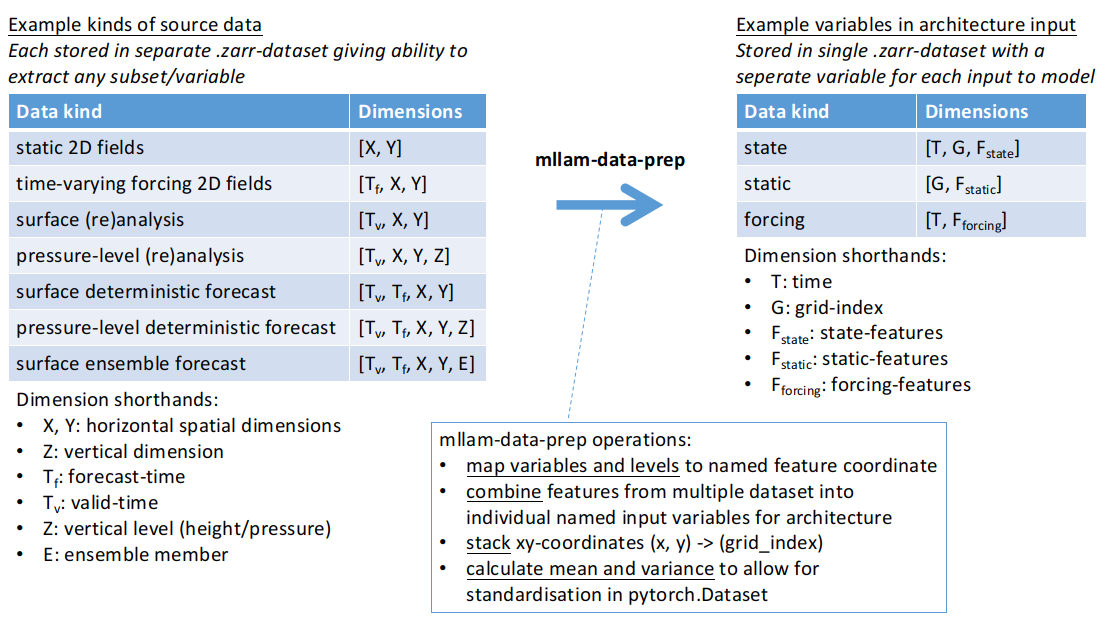
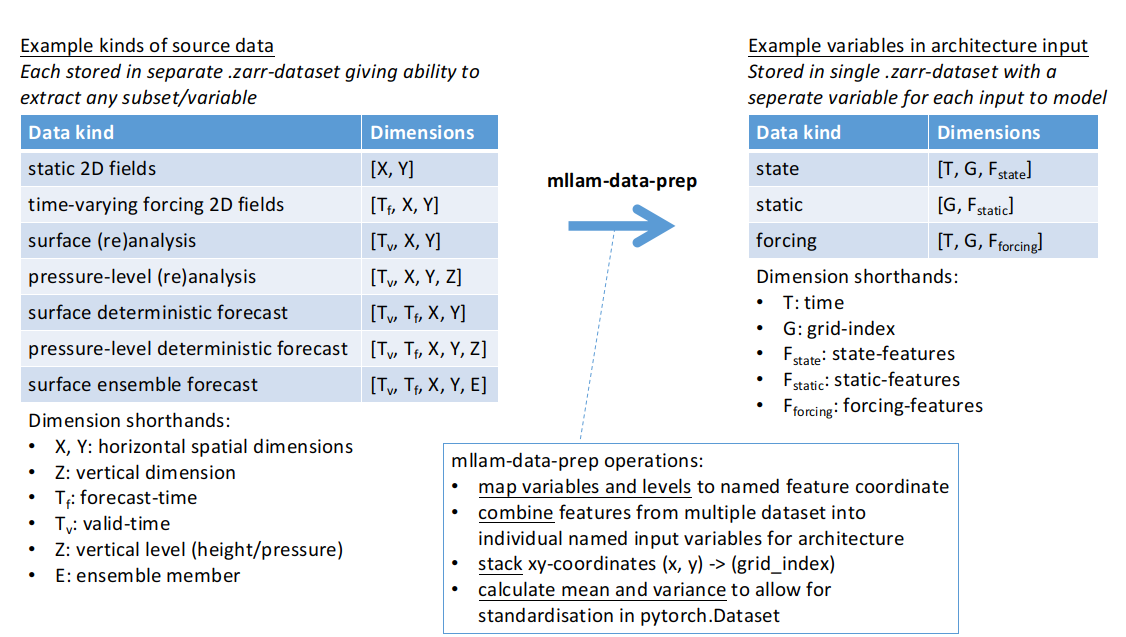
Prepare release v0.1.0 (#6)
* add changelog

* update diagram

* add dev notes to README

* add pypi deploy cicd workflow

* ensure tests run on main

Changed region(s): [[0.0, 0.0308, 0.6137, 0.9238], [0.3989, 0.0308, 1.0, 1.0], [0.4296, 0.3695, 0.4603, 0.4003]]

diff --git a/README.md b/README.md
@@ -12,13 +12,37 @@ The full configuration file specification is given in [mllam_data_prep/config/sp
 
 ## Installation
 
-The easiest way to install the package is to clone the repository and install it using pip:
+To simply use `mllam-data-prep` you can install the most recent tagged version from pypi with pip:
 
 ```bash
-git clone https://github.com/mllam/mllam-data-prep
-cd mllam-data-prep
-pip install .
+python -m pip install mllam-data-prep
 ```
+
+## Developing `mllam-data-prep`
+
+To work on developing `mllam-data-prep` it easiest to install and manage the dependencies with [pdm](https://pdm.fming.dev/). To get started clone your fork of [the main repo](https://github.com/mllam/mllam-data-prep) locally:
+
+```bash
+git clone https://github.com/<your-github-username>/mllam-data-prep
+cd mllam-data-prep
+```
+
+Use pdm to create and use a virtualenv:
+
+```bash
+pdm venv create
+pdm use --venv in-project
+pdm install
+```
+
+All the linting is handelled by `pre-commit` which can be setup to automatically be run on each `git commit` by installing the git commit hook:
+
+```bash
+pdm run pre-commit install
+```
+
+The branch, commit, push and make a pull-request :)
+
 
 ## Usage
 

diff --git a/CHANGELOG.md b/CHANGELOG.md
@@ -1,0 +1,16 @@
+# Changelog
+
+All notable changes to this project will be documented in this file.
+
+The format is based on [Keep a Changelog](https://keepachangelog.com/en/1.1.0/),
+and this project adheres to [Semantic Versioning](https://semver.org/spec/v2.0.0.html).
+
+## [v0.1.0](https://github.com/mllam/mllam-data-prep/releases/tag/v0.1.0)
+
+First tagged release of `mllam-data-prep` which includes functionality to
+declaratively (in a yaml-config file) describe how the variables and
+coordinates of a set of zarr-based source datasets are mapped to a new set of
+variables with new coordinates to single a training dataset and write this
+resulting single dataset to a new zarr dataset. This explicit mapping gives the
+flexibility to target different different model architectures (which may
+require different inputs with different shapes between architectures).
